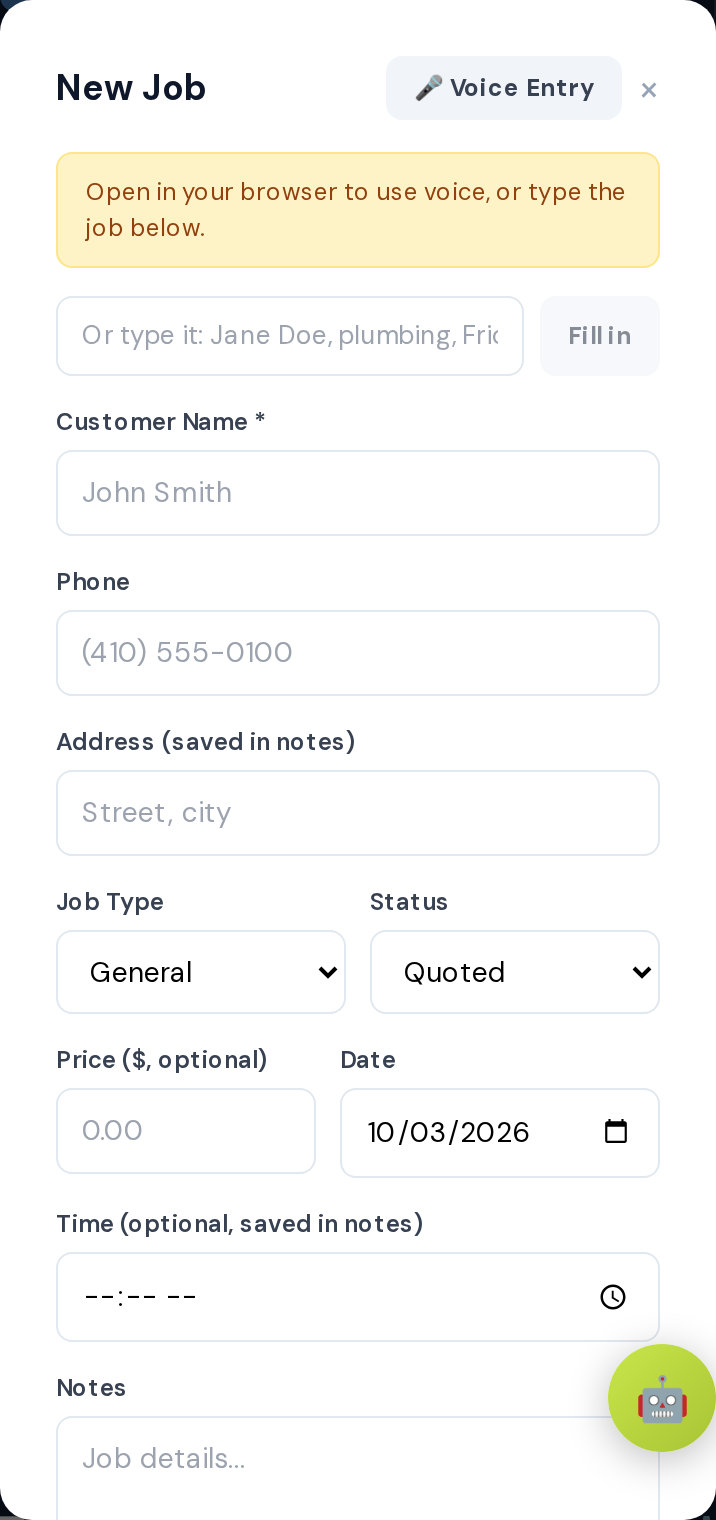
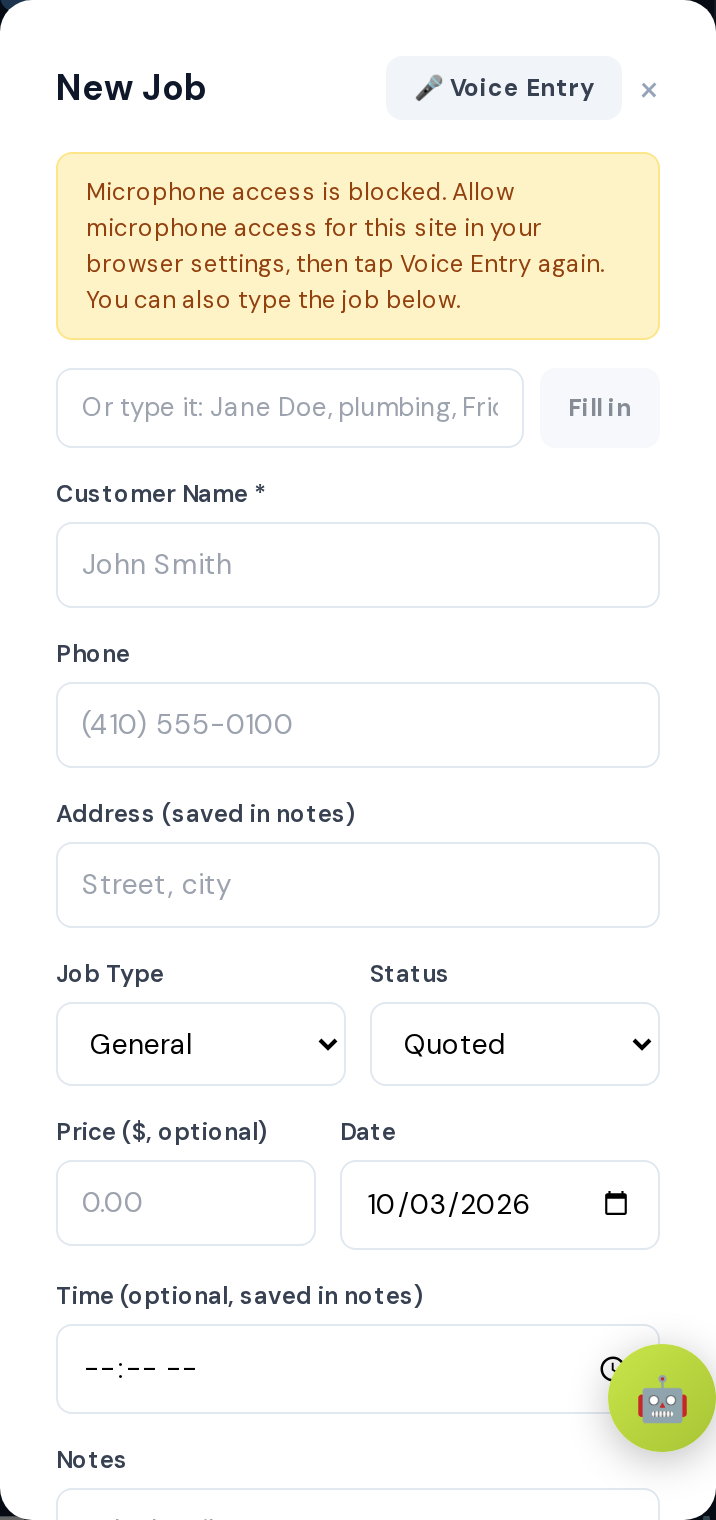
Voice: keep the original mic-blocked message for 'not-allowed' in normal browsers (typed box still focused); in-app browsers keep the open-in-browser text. Test + local evidence updated

diff --git a/app/lib/browser-env.ts b/app/lib/browser-env.ts
@@ -15,10 +15,13 @@ export function isIosChrome(ua: string | null | undefined): boolean {
 }
 
 export const VOICE_UNAVAILABLE_MSG = "Open in your browser to use voice, or type the job below.";
+export const MIC_BLOCKED_MSG = "Microphone access is blocked. Allow microphone access for this site in your browser settings, then tap Voice Entry again. You can also type the job below.";
 export const IOS_CHROME_VOICE_MSG = "Voice doesn't work in Chrome on iPhone. Open this page in Safari to use voice, or type the job below.";
 
 /** Message for a recognition error code (or null for no SpeechRecognition at all). "aborted" is ignored by the caller. */
 export function voiceErrorMessage(code: string | null, ua: string | null | undefined): string {
   if (code === "service-not-allowed" && isIosChrome(ua) && !isInAppBrowser(ua)) return IOS_CHROME_VOICE_MSG;
+  // The user denied mic permission in a normal browser: the site setting is the fix.
+  if (code === "not-allowed" && !isInAppBrowser(ua)) return MIC_BLOCKED_MSG;
   return VOICE_UNAVAILABLE_MSG;
 }
